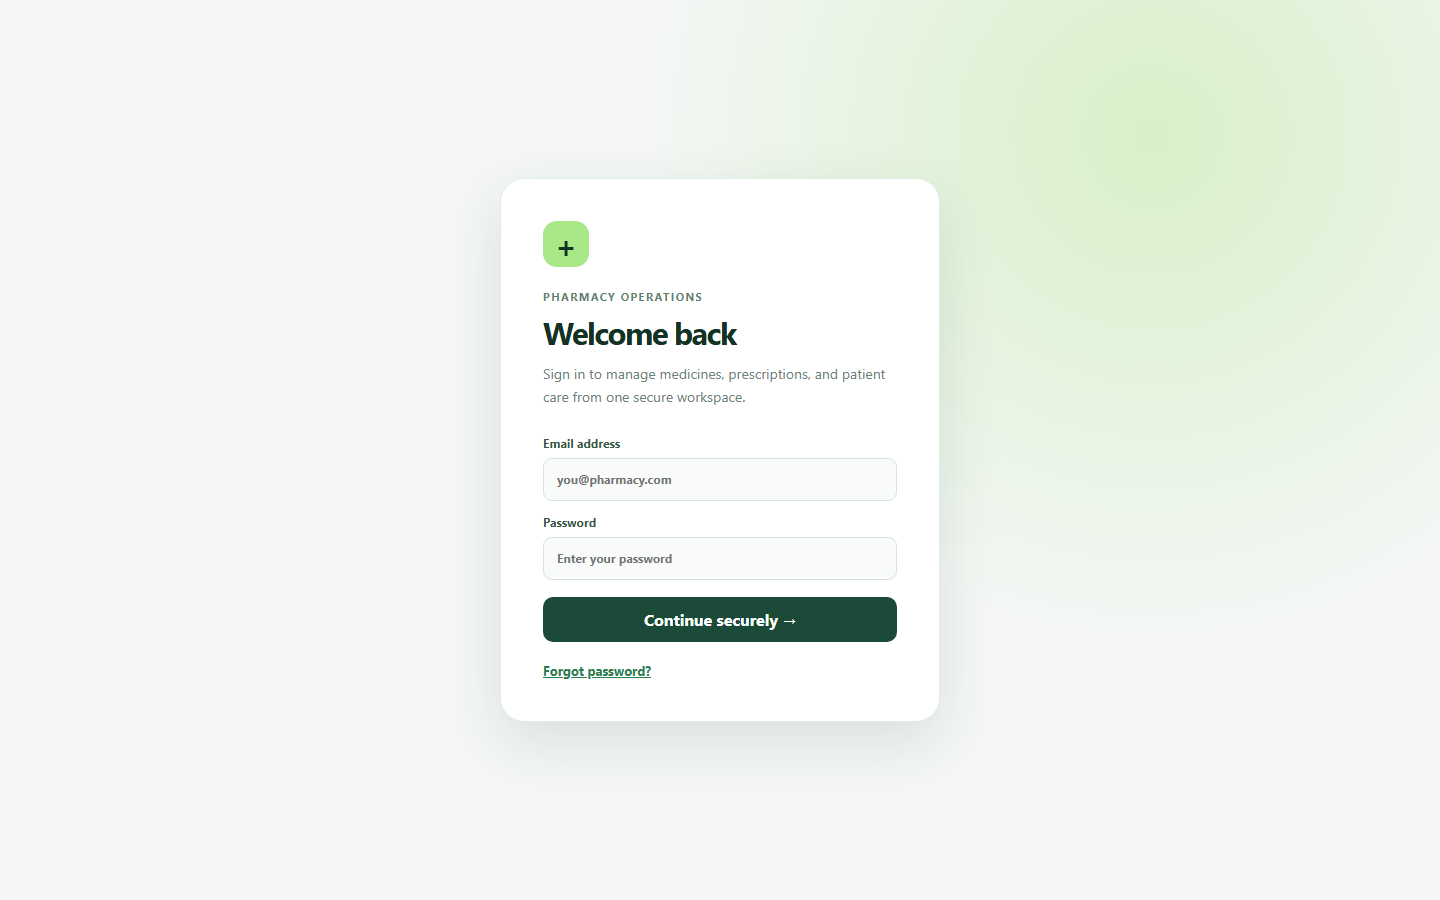
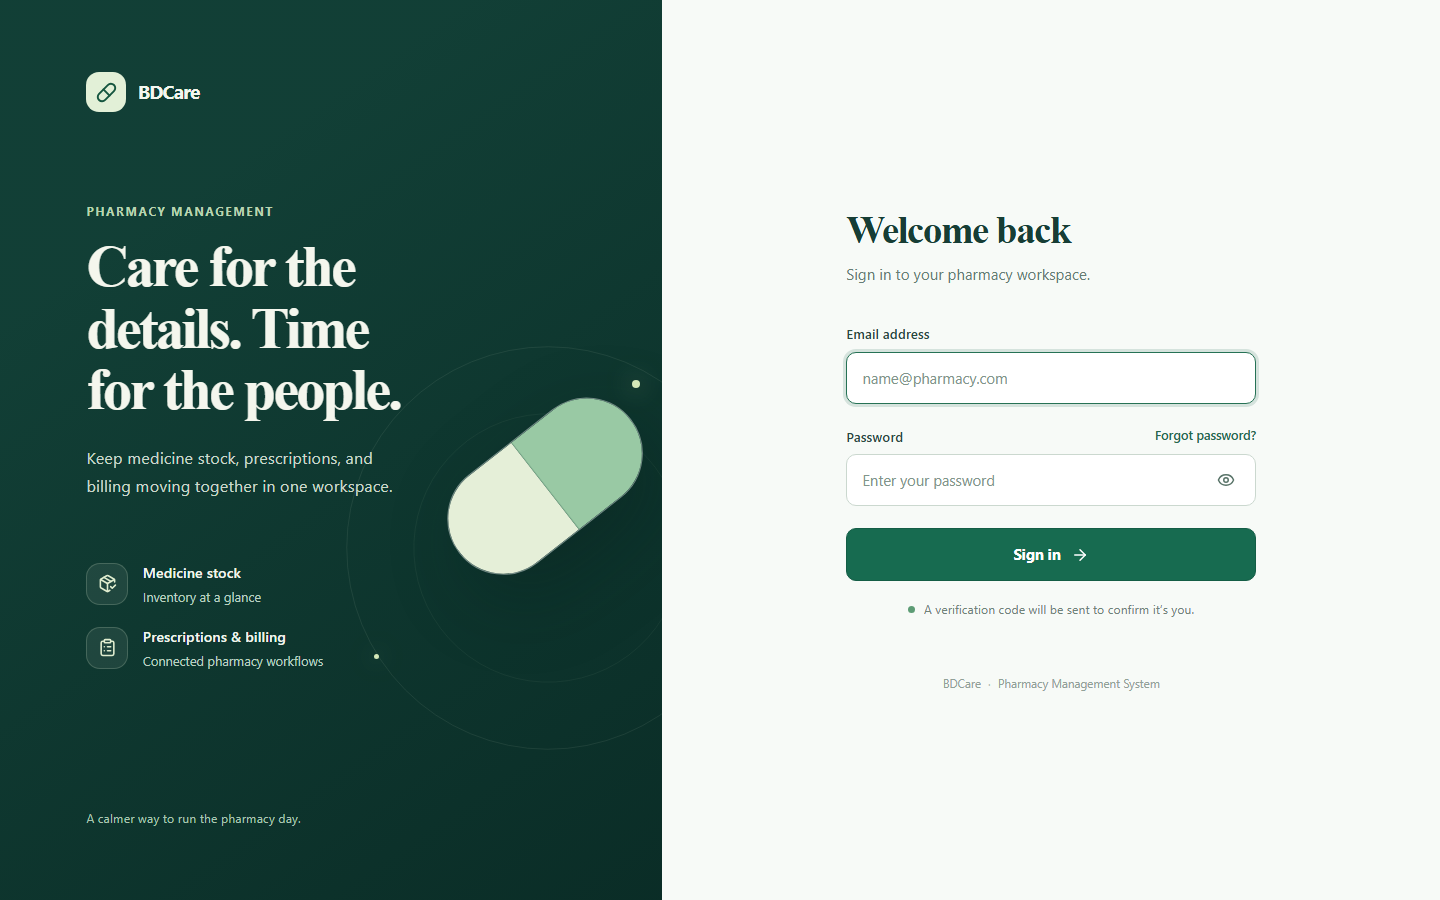
Refresh pharmacy and Ntchire portfolio visuals

diff --git a/docs/index.html b/docs/index.html
@@ -64,11 +64,11 @@
             <div class="project-card-copy"><p class="project-type">Marketplace · Completed 2026</p><h3>AxM Shop</h3><p>A Gabon-focused marketplace for local sellers and imported products, with ordering and delivery tracking.</p><div class="project-bottomline"><span class="stack">Next.js · TypeScript · PostgreSQL</span></div></div>
           </article>
           <article class="project-card">
-            <a class="project-visual screenshot-visual screenshot-visual--pharmacy" href="/images/pharmacy-system-actual-login.png" target="_blank" rel="noopener noreferrer" aria-label="Open actual pharmacy system sign-in screenshot"><img src="/images/pharmacy-system-actual-login.png" alt="Pharmacy Management sign-in screen with email, password, and two-factor authentication" width="1440" height="900" loading="lazy"><span class="visual-caption">Actual web app / sign-in</span></a>
-            <div class="project-card-copy"><p class="project-type">Independent web application</p><h3>Pharmacy system</h3><p>Medicine records, prescriptions and billing, with separate access for staff and patients.</p><div class="project-bottomline"><span class="stack">Spring Boot · React · PostgreSQL</span><a class="project-arrow" href="https://github.com/ndjogoudavid/pharmacy-management_25713" target="_blank" rel="noopener noreferrer" aria-label="View Pharmacy system source">↗</a></div></div>
+            <a class="project-visual screenshot-visual screenshot-visual--pharmacy" href="/images/pharmacy-system-actual-dashboard.png" target="_blank" rel="noopener noreferrer" aria-label="Open actual pharmacy system dashboard screenshot"><img src="/images/pharmacy-system-actual-dashboard.png" alt="Pharmacy Management dashboard with medicine, prescription, stock and revenue summaries and recent bills" width="1440" height="900" loading="lazy"><span class="visual-caption">Actual web app / operations dashboard</span></a>
+            <div class="project-card-copy"><p class="project-type">Independent web application</p><h3>Pharmacy system</h3><p>Medicine records, prescriptions and billing, with separate access for staff and patients.</p><div class="project-bottomline"><span class="stack">Spring Boot · React · PostgreSQL</span><span class="project-links"><a class="project-preview-link" href="/images/pharmacy-system-actual-login.png" target="_blank" rel="noopener noreferrer">Sign-in preview <span aria-hidden="true">↗</span></a><a class="project-arrow" href="https://github.com/ndjogoudavid/pharmacy-management_25713" target="_blank" rel="noopener noreferrer" aria-label="View Pharmacy system source">↗</a></span></div></div>
           </article>
           <article class="project-card">
-            <a class="project-visual screenshot-visual screenshot-visual--mobile" href="/images/ntchire-actual-login.jpeg" target="_blank" rel="noopener noreferrer" aria-label="Open actual Ntchire mobile app screenshot"><img src="/images/ntchire-actual-login.jpeg" alt="Ntchire mobile app sign-in screen on an Android phone" width="488" height="1067" loading="lazy"><span class="visual-caption">Actual mobile app / sign-in</span></a>
+            <a class="project-visual screenshot-visual screenshot-visual--mobile" href="/images/ntchire-current-login.png" target="_blank" rel="noopener noreferrer" aria-label="Open current Ntchire app sign-in screenshot"><img src="/images/ntchire-current-login.png" alt="Current Ntchire sign-in screen with email or NIP and password fields" width="360" height="800" loading="lazy"><span class="visual-caption">Current app / sign-in</span></a>
             <div class="project-card-copy"><p class="project-type">Digital health · Completed 2026</p><h3>Ntchiré</h3><p>A mobile health platform for Gabon, with a Flutter app and NestJS API for connecting patients with local care services.</p><div class="project-bottomline"><span class="stack">Flutter · NestJS · PostgreSQL</span></div></div>
           </article>
           <article class="project-card">

diff --git a/docs/assets/css/portfolio.css b/docs/assets/css/portfolio.css
@@ -89,13 +89,14 @@ h2 { margin: 0; font-size: clamp(38px, 5vw, 58px); font-weight: 620; letter-spac
 .visual-language { background: #e9ece2; }
 .visual-immunization { background: #e9ede8; }
 .visual-caption { position: absolute; right: 12px; bottom: 10px; padding: 4px 8px; border: 1px solid rgba(255,255,255,.3); border-radius: 4px; background: rgba(29, 38, 32, .82); color: #fff; font-size: 9px; font-weight: 600; letter-spacing: .01em; }
-.screenshot-visual { min-height: 215px; padding: 0; background: #e9ece7; text-decoration: none; }
-.screenshot-visual img { display: block; width: 100%; height: 215px; min-height: 215px; object-fit: cover; transition: transform .35s ease; }
+.screenshot-visual { min-height: 300px; padding: 0; background: #e9ece7; text-decoration: none; }
+.screenshot-visual img { display: block; width: 100%; height: 300px; min-height: 300px; object-fit: cover; transition: transform .35s ease; }
 .screenshot-visual:hover img { transform: scale(1.02); }
 .screenshot-visual--pharmacy { background: #e5efe9; }
-.screenshot-visual--pharmacy img { object-fit: contain; }
-.screenshot-visual--mobile { min-height: 255px; padding: 0 12px; background: #edf1f7; }
-.screenshot-visual--mobile img { width: auto; max-width: 100%; height: 255px; min-height: 0; object-fit: contain; border-radius: 8px; }
+.screenshot-visual--pharmacy { min-height: 300px; background: #e5efe9; }
+.screenshot-visual--pharmacy img { object-fit: contain; object-position: center; }
+.screenshot-visual--mobile { min-height: 370px; padding: 0 12px; background: #edf1f7; }
+.screenshot-visual--mobile img { width: auto; max-width: 100%; height: 370px; min-height: 0; object-fit: contain; border-radius: 8px; }
 .lesson-card { width: min(100%, 300px); min-height: 166px; padding: 14px 17px; border: 1px solid rgba(76, 98, 70, .12); border-radius: 8px; background: #fffefa; box-shadow: 0 9px 18px rgba(47, 66, 50, .07); }
 .lesson-top { display: flex; justify-content: space-between; color: #788273; font-size: 7px; font-weight: 750; letter-spacing: .08em; }
 .lesson-mark { float: right; display: grid; width: 43px; height: 43px; place-items: center; border-radius: 50%; background: #e7eddf; color: #547253; font-family: Georgia, serif; font-size: 21px; }
@@ -124,6 +125,9 @@ h2 { margin: 0; font-size: clamp(38px, 5vw, 58px); font-weight: 620; letter-spac
 .project-card h3 { margin: 0 0 8px; font-size: 21px; font-weight: 650; letter-spacing: -.045em; line-height: 1.15; }
 .project-card-copy > p:not(.project-type):not(.stack) { margin: 0; color: #59645c; font-size: 12px; line-height: 1.65; }
 .project-bottomline { display: flex; width: 100%; align-items: center; justify-content: space-between; gap: 12px; margin-top: auto; padding-top: 17px; }
+.project-links { display: inline-flex; flex: none; align-items: center; gap: 9px; }
+.project-preview-link { color: var(--sage-dark); font-size: 10px; font-weight: 650; text-decoration-color: #bdc8b9; text-underline-offset: 3px; white-space: nowrap; }
+.project-preview-link:hover { color: var(--ink); }
 .project-arrow { display: inline-grid; width: 27px; height: 27px; flex: none; place-items: center; border: 1px solid #d9e1d5; border-radius: 50%; background: #f4f6f0; color: var(--sage-dark); font-size: 13px; text-decoration: none; transition: background .18s ease, transform .18s ease; }
 .project-arrow:hover { transform: translate(1px, -1px); background: var(--sage-soft); }
 .project-card-text { min-height: 0; }
